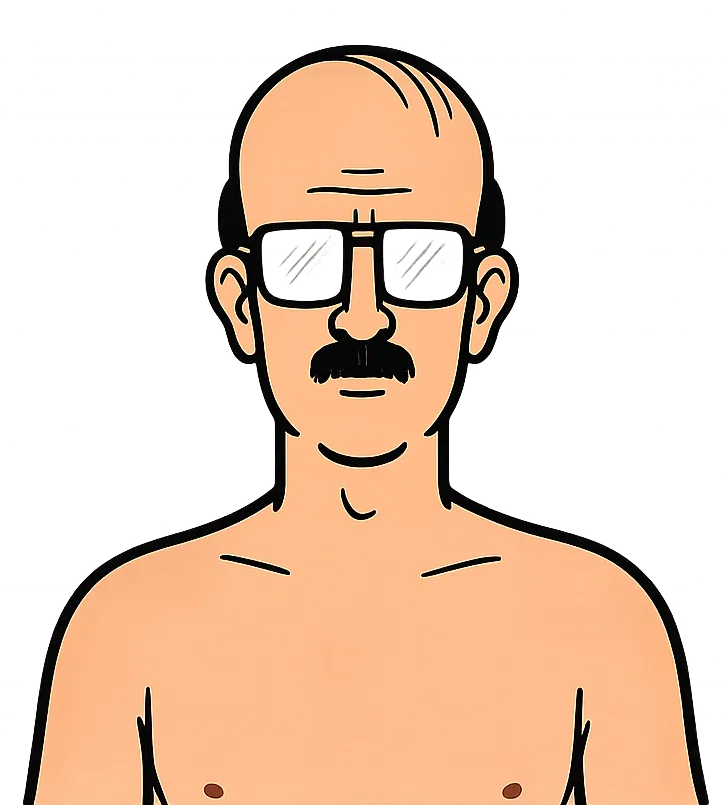
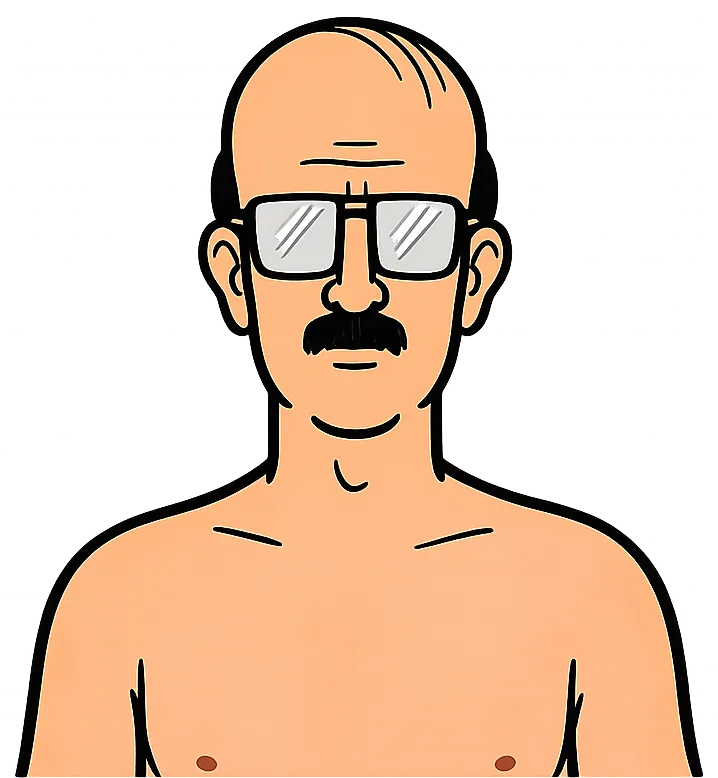
feat(buddy): real 2-frame mouth lip-sync with pixel-aligned frames
New aligned closed/open mascot frames (only the mouth differs), so the flap
moves just the mouth with no head jump. Reframed the avatar (scale 1.15,
top-aligned) so the head is no longer cropped at the crown.

diff --git a/nextjs/app/components/buddy/BuddyAvatar.module.css b/nextjs/app/components/buddy/BuddyAvatar.module.css
@@ -1,10 +1,13 @@
-.wrap { width: 56px; height: 56px; border-radius: 50%; overflow: hidden; background: #f4f1ea; flex-shrink: 0; }
-.face { width: 100%; height: 100%; object-fit: cover; object-position: 50% 6%; display: block;
-  transform: scale(1.5); transform-origin: 50% 10%; }
-/* subtle nod + jaw squash while talking — smooth transform, no blink/fade */
-.wrap[data-talking='true'] .face { animation: buddyTalk .5s infinite ease-in-out; }
-@keyframes buddyTalk {
-  0%, 100% { transform: scale(1.5) translateY(0) scaleY(1); }
-  50% { transform: scale(1.5) translateY(1px) scaleY(0.97); }
+.wrap { position: relative; width: 56px; height: 56px; border-radius: 50%; overflow: hidden;
+  background: #f4f1ea; flex-shrink: 0; }
+/* Both frames share identical framing so only the mouth differs between them. */
+.face, .faceOpen { position: absolute; inset: 0; width: 100%; height: 100%; object-fit: cover;
+  object-position: 50% 0%; transform: scale(1.15); transform-origin: 50% 0%; display: block; }
+.faceOpen { opacity: 0; }
+/* hard-cut 2-frame mouth flap while talking (near-instant switch, not a fade) */
+.wrap[data-talking='true'] .faceOpen { animation: buddyFlap .3s infinite; }
+@keyframes buddyFlap {
+  0%, 49.9% { opacity: 0; }
+  50%, 100% { opacity: 1; }
 }
-@media (prefers-reduced-motion: reduce) { .wrap[data-talking='true'] .face { animation: none; } }
+@media (prefers-reduced-motion: reduce) { .wrap[data-talking='true'] .faceOpen { animation: none; } }

diff --git a/nextjs/app/components/buddy/BuddyAvatar.tsx b/nextjs/app/components/buddy/BuddyAvatar.tsx
@@ -8,10 +8,12 @@ import styles from './BuddyAvatar.module.css'
 export function BuddyAvatarFallback({ isTalking }: { isTalking: boolean }) {
   return (
     <div className={styles.wrap} data-talking={isTalking ? 'true' : 'false'} aria-hidden="true">
-      {/* Single stable frame with a subtle nod/jaw motion while talking. True
-          mouth lip-sync needs pixel-aligned frames or a separate mouth layer. */}
+      {/* Two pixel-aligned frames: closed base + open overlay that hard-cuts
+          while talking, so only the mouth moves (the head stays put). */}
       {/* eslint-disable-next-line @next/next/no-img-element */}
       <img className={styles.face} src="/buddy/buddy.webp" alt="" width={56} height={56} />
+      {/* eslint-disable-next-line @next/next/no-img-element */}
+      <img className={styles.faceOpen} src="/buddy/buddy-open.webp" alt="" width={56} height={56} />
     </div>
   )
 }